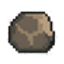
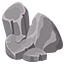
Company y nuevos Sprites

diff --git a/MaquinariaScene.js b/MaquinariaScene.js
@@ -56,7 +56,6 @@ class MaquinariaScene extends Phaser.Scene {
       { x: 300, y: 600 }, { x: 200, y: 700 }
     ];
 
-    // Genera los primeros 4 materiales (uno de cada tipo)
     this.spawnInitialMaterials();
 
     // Colisiones
@@ -99,7 +98,7 @@ class MaquinariaScene extends Phaser.Scene {
     // Reinicio de variables al empezar un nuevo intento
     this.gameOver = false;
     this.playedGameOverSound = false;
-    this.time.removeAllEvents(); // limpia eventos residuales
+    this.time.removeAllEvents();
 
     // 🔊 Sonidos del juego
   this.engineSound = this.sound.add('engine', { loop: true, volume: 0.3 });
@@ -111,27 +110,21 @@ class MaquinariaScene extends Phaser.Scene {
   this.engineSound.play();
   }
 
-  // 🟢 Genera los 4 materiales iniciales (uno por tipo)
   spawnInitialMaterials() {
     const types = ['stone', 'sand', 'waste', 'wood'];
 
-    // Limpia materiales previos
     this.materials.clear(true, true);
 
-    // Genera uno de cada tipo en posiciones únicas
     types.forEach(type => this.spawnMaterial(type));
   }
 
-  // 🟢 Crea un material en una zona libre aleatoria
 spawnMaterial(type) {
-  // Evita zonas ocupadas
   let freeZones = this.spawnZones.filter(zone => {
     return !this.materials.getChildren().some(mat => 
       Phaser.Math.Distance.Between(zone.x, zone.y, mat.x, mat.y) < 70
     );
   });
 
-  // Si se agotaron zonas libres, usa todas y resetea
   if (freeZones.length === 0) freeZones = [...this.spawnZones];
 
   const zone = Phaser.Utils.Array.GetRandom(freeZones);
@@ -161,7 +154,6 @@ spawnMaterial(type) {
       material.destroy();
       this.machine.setTexture('machineCarrying');
 
-      // volver a crear otro del mismo tipo en otra zona
       this.time.delayedCall(1000, () => this.spawnMaterial(type));
     }
   }
@@ -188,11 +180,9 @@ spawnMaterial(type) {
     this.machine.setTexture('machineIdle');
     this.currentMaterial = null;
 
-    // Actualizar texto de UI
     this.scoreText.setText(`Puntos: ${this.score}`);
     this.timerText.setText(`${this.timeLeft}s`);
 
-    // Nuevo objetivo aleatorio
     this.targetType = Phaser.Utils.Array.GetRandom(['stone', 'sand', 'waste', 'wood']);
     this.targetText.setText(`Recolecta: ${this.getEmoji(this.targetType)}`);
   }
@@ -200,7 +190,7 @@ spawnMaterial(type) {
 
 
   updateTimer() {
-  if (this.gameOver) return; // evita seguir restando tiempo después del fin
+  if (this.gameOver) return;
   this.timeLeft--;
   this.timerText.setText(`${this.timeLeft}s`);
   if (this.timeLeft <= 0) {
@@ -210,7 +200,6 @@ spawnMaterial(type) {
 
 
 async endGame() {
-  // Pausar física y detener máquina
   this.physics.pause();
   this.machine.setVelocity(0, 0);
 
@@ -220,12 +209,12 @@ async endGame() {
   if (scoreText) scoreText.innerText = `Puntaje final: ${this.score}`;
   if (modal) modal.style.display = "flex";
 
-  // 🎯 Enviar puntaje al Google Sheet correcto
+  // 🎯 Enviar puntaje al Google Sheet
   try {
     const WEBAPP_URL = "https://script.google.com/macros/s/AKfycbxUt6tND5SyxA8_C5h2FnlLXm7dpMAKb7-ZVe7d2tyvHK1fIPJjqEG-NxG42R3wPM-w_g/exec";
     const name = localStorage.getItem("playerName") || "Jugador";
 
-    // 🔹 Importante: incluir el campo `gameType`
+    
   const body = new URLSearchParams({
     type: 'score',
     gameType: 'maquinaria',

diff --git a/main.js b/main.js
@@ -1,4 +1,4 @@
-// Arranque del juego SOLO una vez (después de registro)
+
 function startPhaser() {
   if (!window.game) {
     window.game = new Phaser.Game(config);
@@ -19,7 +19,6 @@ document.addEventListener("DOMContentLoaded", () => {
       headers: { "Content-Type": "application/x-www-form-urlencoded;charset=UTF-8" },
       body
     });
-    // intenta leer JSON, pero no bloquees si no se puede
     const text = await res.text();
     try { return JSON.parse(text); } catch { return { status: 'ok', raw: text }; }
   }
@@ -29,15 +28,16 @@ document.addEventListener("DOMContentLoaded", () => {
     e.preventDefault();
 
     const btn = form.querySelector("button[type='submit']");
-    if (btn.disabled) return; // ⚠ evita duplicados
+    if (btn.disabled) return; 
     btn.disabled = true;
     btn.textContent = "Registrando...";
 
     const name  = document.getElementById("name").value.trim();
     const email = document.getElementById("email").value.trim();
     const phone = document.getElementById("phone").value.trim();
+    const company = document.getElementById("company").value.trim();
 
-    // Evitar registros vacíos
+    
     if (!name || !email || !phone) {
       alert("Por favor completa todos los campos.");
       btn.disabled = false;
@@ -46,10 +46,10 @@ document.addEventListener("DOMContentLoaded", () => {
     }
 
     try {
-      await postForm(WEBAPP_URL, { name, email, phone });
+      await postForm(WEBAPP_URL, { name, email, phone, company });
       localStorage.setItem("playerName", name);
 
-      // ✅ cerrar modal y arrancar el juego
+      
       document.getElementById("registerModal").style.display = "none";
       startPhaser();
     } catch (err) {
@@ -92,9 +92,9 @@ const config = {
     arcade: { debug: false }
   },
   scene: [
-    StartScene,     // Menú
-    GameScene,      // Carretera
-    MaquinariaScene // Minijuego maquinaria (definido en loaderScene.js)
+    StartScene,     
+    GameScene,      
+    MaquinariaScene 
   ]
 };
 

diff --git a/index.html b/index.html
@@ -11,11 +11,12 @@
   <!-- Modal de Registro -->
   <div id="registerModal">
     <form id="registerForm">
-      <h2>Registro</h2>
-      <input type="text" id="name" placeholder="Nombre" required />
-      <input type="email" id="email" placeholder="Correo" required />
-      <input type="tel" id="phone" placeholder="Celular" required />
-      <button type="submit">Comenzar</button>
+      <h2>REGISTRO:</h2>
+      <input type="text" id="name" placeholder="NOMBRE" required />
+      <input type="email" id="email" placeholder="CORREO" required />
+      <input type="tel" id="phone" placeholder="CELULAR" required />
+      <input type="text" id="company" placeholder="EMPRESA" required />
+      <button type="submit">COMENZAR</button>
     </form>
   </div>
 
@@ -36,7 +37,7 @@
     <div class="modal-content">
       <h2>Instrucciones</h2>
       <p>Camión: ← → para cambiar de carril. Suma con cajas, evita conos, huecos y ciclistas.</p>
-      <p>Maquinaria: mueve la volqueta con ← →, acércate a cajas y llévalas al dock.</p>
+      <p>Maquinaria: mueve la excavadora con ← →, acércate a cajas y llévalas a la volqueta.</p>
       <button onclick="closeModal('instructionsModal')">Cerrar</button>
     </div>
   </div>

diff --git a/startScene.js b/startScene.js
@@ -10,7 +10,6 @@ class StartScene extends Phaser.Scene {
     this.load.image('btnMaquinaria', 'assets/btn_maquinaria.png');
     this.load.image('btnInfo', 'assets/btn_info.png');
 
-    // También se usan luego en GameScene (si ya están en caché, no pasa nada):
     this.load.image('truck', 'assets/truck.png');
     this.load.image('cargo', 'assets/cargo.png');
     this.load.image('obstacle', 'assets/obstacle.png');
@@ -33,7 +32,6 @@ create() {
   // Fondo del menú
   this.add.tileSprite(width/2, height/2, width, height, 'road');
 
-  // ===== Música de menú (singleton global) =====
   if (!window.menuMusic) {
     window.menuMusic = this.sound.add('menuMusic', { loop: true, volume: 0.5 });
   }
@@ -54,7 +52,6 @@ create() {
   btnMaquinaria.on('pointerdown', () => { stopMenu(); this.scene.start('MaquinariaScene'); });
   btnInfo.on('pointerdown', () => openModal('instructionsModal'));
 
-  // por si alguien cambia de escena con teclado/evento
   this.events.on('shutdown', () => { if (window.menuMusic && window.menuMusic.isPlaying) window.menuMusic.stop(); });
   this.events.on('sleep', () => { if (window.menuMusic && window.menuMusic.isPlaying) window.menuMusic.stop(); });
 }

diff --git a/gameScene.js b/gameScene.js
@@ -155,7 +155,7 @@ async endGame(message) {
   this.cyclists.clear(true, true);
   this.holes.clear(true, true);
 
-  // 👉 Mostrar modal HTML (no dependas de la red)
+
   const msgEl   = document.getElementById("gameOverMessage");
   const scoreEl = document.getElementById("truckScoreText");
   const modalEl = document.getElementById("gameOverTruckModal");
@@ -164,7 +164,7 @@ async endGame(message) {
   if (scoreEl) scoreEl.innerText = `Puntaje final: ${this.score}`;
   if (modalEl) modalEl.style.display = "flex";
 
-  // 👉 Guardar puntaje SIN await (no bloquea el flujo)
+  
   try {
     const WEBAPP_URL = "https://script.google.com/macros/s/AKfycbxUt6tND5SyxA8_C5h2FnlLXm7dpMAKb7-ZVe7d2tyvHK1fIPJjqEG-NxG42R3wPM-w_g/exec";
     const name = localStorage.getItem("playerName") || "Jugador";

diff --git a/style.css b/style.css
@@ -114,6 +114,7 @@ canvas {
   border-radius: 10px;
   text-align: left;
   width: 300px;
+  padding-right: 40px
 }
 
 #registerForm h2 {
@@ -134,6 +135,7 @@ canvas {
   color: white;
   border: none;
   font-weight: bold;
+  width: 320px
 }
 
 #registerForm button:hover {
